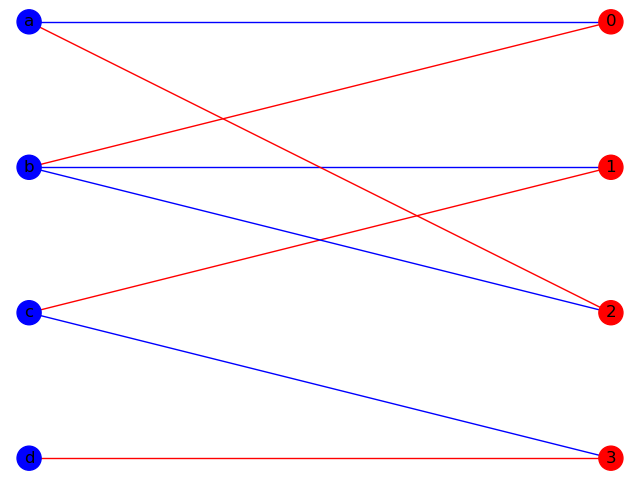
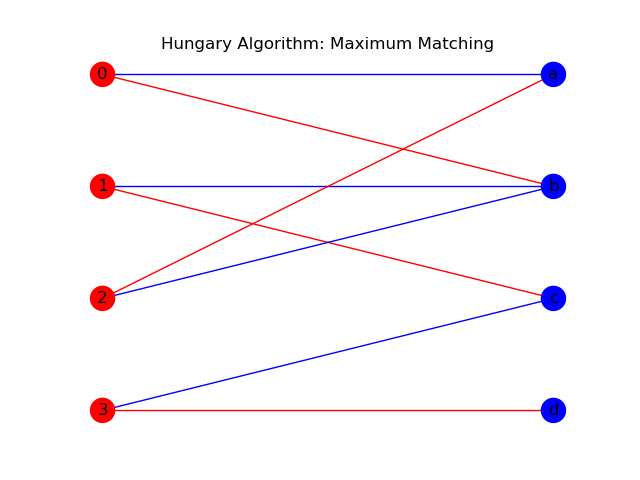
Come to an end for now

diff --git a/graph_match/kuhn_munkras.py b/graph_match/kuhn_munkras.py
@@ -1,0 +1,127 @@
+import networkx as nx
+import matplotlib.pyplot as plt
+import sys
+from collections import defaultdict
+
+
+class KM:
+    def __init__(self, nodes_one, nodes_two, edges) -> None:
+        self.nodes_one = nodes_one # 二部图第一部分节点
+        self.nodes_two = nodes_two # 二部图第二部分节点
+        self.edges = edges # 所有边（带权重）
+        
+    def optimal_match(self):
+        '''理解该算法建议手动模拟一下代码中的例子
+        '''
+        match = defaultdict(lambda: None) # 记录节点匹配情况
+        sum_weights = 0 # 最优匹配权重总和
+        node_neighbors = defaultdict(list) # 节点邻居映射
+        edge_weight = defaultdict(int) # 边权重映射
+        
+        label_one = defaultdict(int) # 第一部分节点的可行顶标
+        label_two = defaultdict(int) # 第二部分节点的可行顶标
+        slack = defaultdict(lambda: sys.maxsize) # 记录第二部分节点能和第一部分节点匹配还需要多少权重
+        one_visited, two_visited = set(), set()
+        # 初始化
+        for (u, v, w) in self.edges:
+            node_neighbors[u].append(v)
+            node_neighbors[v].append(u)
+            edge_weight[(u, v)] = edge_weight[(v, u)] = w
+        for node_one in self.nodes_one:
+            max_w = 0
+            for node_one_neighbor in node_neighbors[node_one]:
+                max_w = max(max_w, edge_weight[(node_one, node_one_neighbor)])
+            label_one[node_one] = max_w
+        
+        def dfs(u):
+            one_visited.add(u)
+            
+            for v in node_neighbors[u]:
+                if v in two_visited:
+                    continue
+                gap = label_one[u]+label_two[v] - edge_weight[(u, v)]
+                
+                if gap == 0:
+                    two_visited.add(v)
+                    if match[v] == None or dfs(match[v]):
+                        match[v] = u
+                        return True # 
+                else:
+                    slack[v] = min(slack[v], gap)
+            return False
+           
+        for u in self.nodes_one:
+            slack.clear()
+            while not dfs(u):
+                min_gap = sys.maxsize # 最小可以降低多少顶标值能够完成匹配
+                for node_two in self.nodes_two:
+                    if node_two not in two_visited:
+                        min_gap = min(min_gap, slack[node_two])
+                for node_one in self.nodes_one:
+                    if node_one in one_visited:
+                        label_one[node_one] -= min_gap
+                for node_two in self.nodes_two:
+                    if node_two in two_visited:
+                        label_two[node_two] += min_gap
+                    else:
+                        slack[node_two] -= min_gap
+                one_visited.clear()
+                two_visited.clear()
+        # 求最优匹配的权重和
+        for key, value in match.items():
+            sum_weights += edge_weight[(value, key)]
+        return match, sum_weights
+
+def draw(G, nodes_one, nodes_two, color_edges):
+    nodes = list(G.nodes)
+    edges = list(G.edges)
+    num_node = len(nodes)
+    num_edge = len(edges)
+    node_color = ['b'] * num_node
+    edge_color = ['b'] * num_edge
+
+    for i in range(0, num_node):
+        if isinstance(nodes[i], type(nodes_one[0])):
+            node_color[i] = 'r'
+
+    for i in range(num_edge):
+        u, v = edges[i][0], edges[i][1]
+        # 无向图
+        if (u, v) in color_edges or (v, u) in color_edges:
+            edge_color[i] = 'r'
+    '''
+    自定义pos
+    '''
+    # 对matplotlib不太熟悉，布局有待改进
+    pos = dict()
+    size = max(len(nodes_one), len(nodes_two)) + 2
+    one_x, two_x = size//3, 2*size // 3
+    one_y, two_y = size-1, size-1
+    for node_one in nodes_one:
+        pos[node_one] = [one_x, one_y]
+        one_y -= 1
+
+    for node_two in nodes_two:
+        pos[node_two] = [two_x, two_y]
+        two_y -= 1
+    plt.title('KM Algorithm: Optimal Matching')
+    nx.draw(G, pos, with_labels=True, node_color=node_color, edge_color=edge_color)
+    edge_labels = nx.get_edge_attributes(G, 'weight')
+    # label_pos=0.8作用: 防止图中交叉边上权重值重叠
+    nx.draw_networkx_edge_labels(G, pos, edge_labels=edge_labels, label_pos=0.8)
+    plt.savefig('kuhn_munkras.png', format='PNG')
+    plt.show()       
+def main():
+    nodes_one = [0, 1, 2]
+    nodes_two = ['a', 'b', 'c']
+    edges = [(0, 'a', 3), (0, 'c', 4), (1, 'a', 2), (1, 'b', 1), (1, 'c', 3), (2, 'c', 5)]
+    match, sum_weights = KM(nodes_one, nodes_two, edges).optimal_match()
+    match_edges = [(u, v) for u, v in match.items()]
+    print('{} | {}'.format(match_edges, sum_weights))
+    G = nx.Graph()
+    G.add_nodes_from(nodes_one+nodes_two)
+    G.add_weighted_edges_from(edges)
+    draw(G, nodes_one, nodes_two, match_edges)
+
+if __name__ == '__main__':
+    main()

diff --git a/shortest_path/floyd_warshall.py b/shortest_path/floyd_warshall.py
@@ -11,24 +11,25 @@ INF = 20211120 #一个较大的数，graph_mat[i][j]=INF表示i不可以到达j
 
 class FloydWarshall:
     def __init__(self, graph_mat) -> None:
-        self.graph_mat = graph_mat
+        self.graph_mat = graph_mat # 图的邻接矩阵
 
     def shortest_path(self):
         m, n = len(self.graph_mat), len(self.graph_mat[0])
-        path = [[-1] * n for _ in range(m)]
+        distance_mat = self.graph_mat.copy()
+        path = [[None] * n for _ in range(m)] # 记录路径
         for k in range(m):
             for i in range(m):
                 for j in range(n):
-                    if self.graph_mat[i][k]+self.graph_mat[k][j] < self.graph_mat[i][j]:
-                        self.graph_mat[i][j] = self.graph_mat[i][k]+self.graph_mat[k][j]
+                    if distance_mat[i][k]+distance_mat[k][j] < distance_mat[i][j]:
+                        distance_mat[i][j] = distance_mat[i][k]+distance_mat[k][j]
                         path[i][j] = k
-        return self.graph_mat, path
+        return distance_mat, path
 # 递归
 # def get_nodes_edges_recursion(paths, i, j):
 #         if i == j:
 #             return [i], []
 #         else:
-#             if paths[i][j] == -1:
+#             if paths[i][j] == None:
 #                 return [j], [(i, j)]
 #             else:
 #                 left_nodes, left_edges = get_nodes_edges(paths, i, paths[i][j])
@@ -38,7 +39,7 @@ class FloydWarshall:
 def get_nodes_edges(paths, i, j):
     pass_nodes = [i, j]
     pass_edges = []
-    while paths[i][j] != -1:
+    while paths[i][j] != None:
         j = paths[i][j]
         pass_nodes.insert(1, j)
         pass_edges.append((j, pass_nodes[2]))
@@ -67,7 +68,7 @@ def draw(sp_mat, color_nodes, color_edges):
     # print(nx_G.edges(data=True))
     edge_labels = nx.get_edge_attributes(nx_G, 'w')
     # tensor.item() tensor(0.)->0(tensor->int)
-    edge_labels = { (key[0],key[1]): "w:"+str(edge_labels[key].item()) for key in edge_labels }
+    edge_labels = { (key[0],key[1]): edge_labels[key].item() for key in edge_labels }
     edges = list(nx_G.edges)
     num_nodes = nx_G.number_of_nodes()
     num_edges = nx_G.number_of_edges()
@@ -82,7 +83,7 @@ def draw(sp_mat, color_nodes, color_edges):
         if (u, v) in set(color_edges) or (v, u) in set(color_edges):
             edge_color[i] = 'r'
     pos = nx.circular_layout(nx_G)
-    plt.title('Undigraph-Floyd Warshall')
+    plt.title('Undigraph: Shortest Path')
     nx.draw(nx_G, pos, with_labels=True, node_color=node_color, edge_color=edge_color)
     nx.draw_networkx_edge_labels(nx_G, pos, edge_labels=edge_labels)
     plt.savefig('floyd_warshall.png', format='PNG')
@@ -105,13 +106,13 @@ def main():
                 graph_mat[i][j] += graph_mat[j][i]
                 graph_mat[j][i] = graph_mat[i][j]
     
-    finaly_mat, paths = FloydWarshall(graph_mat).shortest_path()
-    print(finaly_mat)
+    distance_mat, paths = FloydWarshall(graph_mat).shortest_path()
+    print(distance_mat)
     print(paths)
 
     for i in range(count_node):
         for j in range(i+1, count_node):
-            print('{}->{}: {} | {}'.format(i, j, get_nodes_edges(paths, i, j), finaly_mat[i][j]))
+            print('{}->{}: {} | {}'.format(i, j, get_nodes_edges(paths, i, j), distance_mat[i][j]))
             
     start_node, end_node = 0, 5 # 开始节点，结束节点
     pass_nodes, pass_edges = get_nodes_edges(paths, start_node, end_node)

diff --git a/graph_match/hungary.py b/graph_match/hungary.py
@@ -4,17 +4,16 @@ from collections import defaultdict
 
 class Hungary:
     def __init__(self, nodes_one, nodes_two, edges) -> None:
-        self.nodes_one = nodes_one
-        self.nodes_two = nodes_two
-        self.edges = edges
-
+        self.nodes_one = nodes_one # 二部图的第一部分节点
+        self.nodes_two = nodes_two # 二部图的第二部分节点
+        self.edges = edges # 二部图的所有边
+    
     def max_match(self):
         '''求最大匹配边的数量，标记匹配的节点
         '''
-        match = defaultdict(lambda: -1) #记录节点匹配
+        match = defaultdict(lambda: None) #记录节点匹配
         num_match = 0 #最大匹配数量
         node_neighbors = defaultdict(list) # 节点邻居映射
-
         for (u, v) in self.edges:
             node_neighbors[u].append(v)
             node_neighbors[v].append(u)
@@ -23,11 +22,10 @@ class Hungary:
             for v in node_neighbors[u]:
                 if v not in visited:
                     visited.add(v)
-                    if match[v] == -1 or dfs(match[v]):
+                    if match[v] == None or dfs(match[v]):
                         match[v] = u
                         return True
             return False
-
         for node in self.nodes_one:
             visited = set()
             if (dfs(node)):
@@ -64,9 +62,10 @@ def draw(G, nodes_one, nodes_two, color_edges):
         one_y -= 1
 
     for node_two in nodes_two:
-        pos[node_two] = [two_x // 3, two_y]
+        pos[node_two] = [two_x, two_y]
         two_y -= 1
     # print(pos)
+    plt.title('Hungary Algorithm: Maximum Matching')
     nx.draw(G, pos, with_labels=True, node_color=node_color, edge_color=edge_color)
     plt.savefig('hungary.png', format='PNG')
     plt.show()
@@ -86,9 +85,7 @@ def main():
     edges = [(0, 'a'), (0, 'b'), (1, 'b'), (1, 'c'), (2, 'a'), (2, 'b'), (3, 'c'), (3, 'd')]
     
     num_match, match = Hungary(nodes_one, nodes_two, edges).max_match()
-    match_edges = []
-    for key, value in match.items():
-        match_edges.append((value, key))
+    match_edges = [(u, v) for u, v in match.items()]
     print('{} | {}'.format(match_edges, num_match))
 
     G = nx.Graph()

diff --git a/shortest_path/bellman_ford.py b/shortest_path/bellman_ford.py
@@ -102,10 +102,10 @@ def draw(DG, color_nodes, color_edges):
             edge_color[i] = 'r'
             
     pos = nx.circular_layout(DG)
-    plt.title('Digraph-Bellman_Ford')
+    plt.title('Digraph: Shortest Path')
     nx.draw(DG, pos, with_labels=True, node_color=node_color, edge_color=edge_color) # 画图
     edge_labels = nx.get_edge_attributes(DG, 'weight')
-    edge_labels = { (key[0],key[1]): "w:"+str(edge_labels[key]) for key in edge_labels }
+    # edge_labels = { (key[0],key[1]): "w:"+str(edge_labels[key]) for key in edge_labels }
     nx.draw_networkx_edge_labels(DG, pos, edge_labels=edge_labels) # 画权重
     plt.savefig('bellman_ford.png', format='PNG')
     plt.show()

diff --git a/shortest_path/dijkstra.py b/shortest_path/dijkstra.py
@@ -108,10 +108,10 @@ def draw(DG, color_nodes, color_edges):
             edge_color[i] = 'r'
             
     pos = nx.circular_layout(DG)
-    plt.title('Digraph-Dijkstra')
+    plt.title('Digraph: Shortest Path')
     nx.draw(DG, pos, with_labels=True, node_color=node_color, edge_color=edge_color) # 画图
     edge_labels = nx.get_edge_attributes(DG, 'weight')
-    edge_labels = { (key[0],key[1]): "w:"+str(edge_labels[key]) for key in edge_labels }
+    # edge_labels = { (key[0],key[1]): "w:"+str(edge_labels[key]) for key in edge_labels }
     nx.draw_networkx_edge_labels(DG, pos, edge_labels=edge_labels) # 画权重
     plt.savefig('dijkstra.png', format='PNG')
     plt.show()

diff --git a/mst/kruskal.py b/mst/kruskal.py
@@ -54,10 +54,11 @@ def draw(G, color_edges):
         if (u, v) in color_edges or (v, u) in color_edges:
             edge_color[i] = 'r'
     pos = nx.kamada_kawai_layout(G)
+    plt.title('MST')
     nx.draw(G, pos, with_labels=True, edge_color=edge_color)
     edge_labels = nx.get_edge_attributes(G, 'weight')
     nx.draw_networkx_edge_labels(G, pos, edge_labels=edge_labels)
-    # plt.savefig("kruskal.png", format="PNG")
+    plt.savefig("kruskal.png", format="PNG")
     plt.show()
 
 def main():

diff --git a/mst/prim.py b/mst/prim.py
@@ -80,6 +80,7 @@ def draw(G, color_edges):
     
     # 边的长度和权重大小成正比
     pos = nx.kamada_kawai_layout(G)
+    plt.title('MST')
     edge_labels = nx.get_edge_attributes(G, 'weight') # 画权重
     nx.draw_networkx_edge_labels(G, pos, edge_labels=edge_labels)
     nx.draw(G, pos, with_labels=True, edge_color=edge_color) # 画边

diff --git a/mst/broken_circle.py b/mst/broken_circle.py
@@ -97,6 +97,7 @@ def draw(G, color_edges):
     
     # 边的长度和权重大小成正比
     pos = nx.kamada_kawai_layout(G)
+    plt.title('MST')
     nx.draw(G, pos, with_labels=True, edge_color=edge_color)
     edge_labels = nx.get_edge_attributes(G, 'weight')
     nx.draw_networkx_edge_labels(G, pos, edge_labels=edge_labels)

diff --git a/README.md b/README.md
@@ -25,3 +25,6 @@
 ### 3.1 Hungary algorithm
 - [代码](graph_match/hungary.py)
 - [图例](graph_match/hungary.png)
+### 3.2 Kuhn_Munkras
+- [代码](graph_match/kuhn_munkras.py)
+- [图例](graph_match/kuhn_munkras.png)
